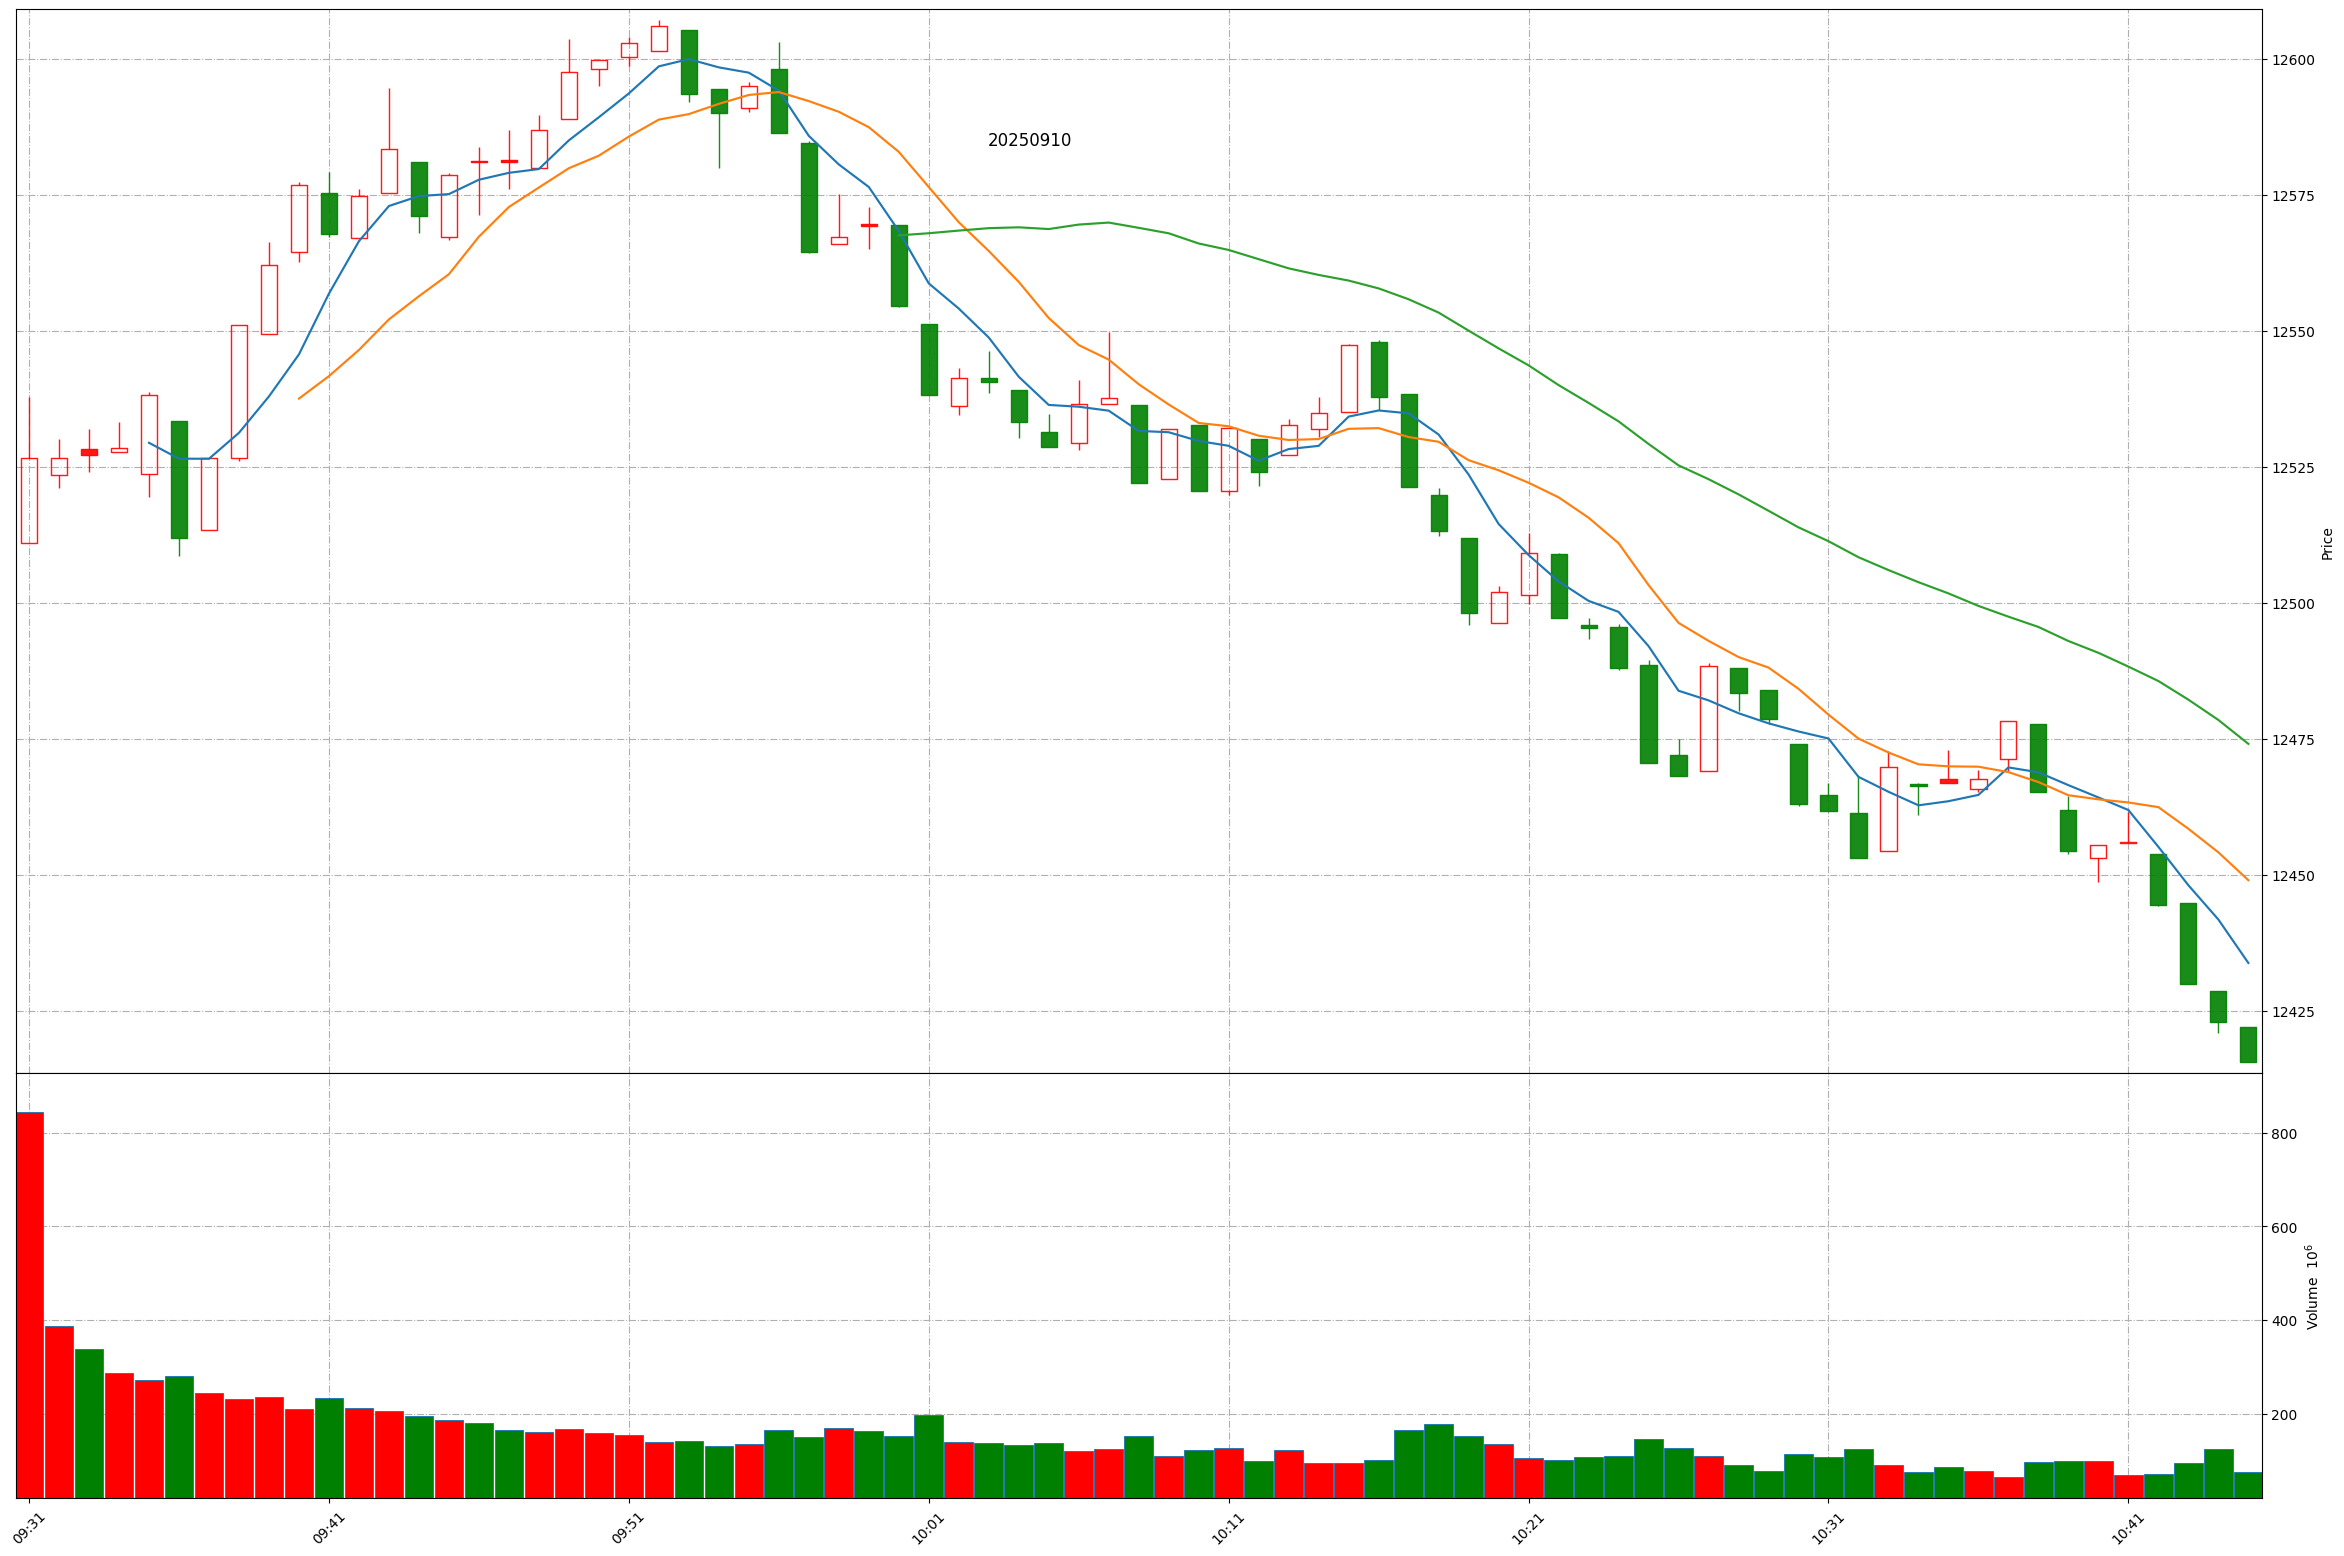
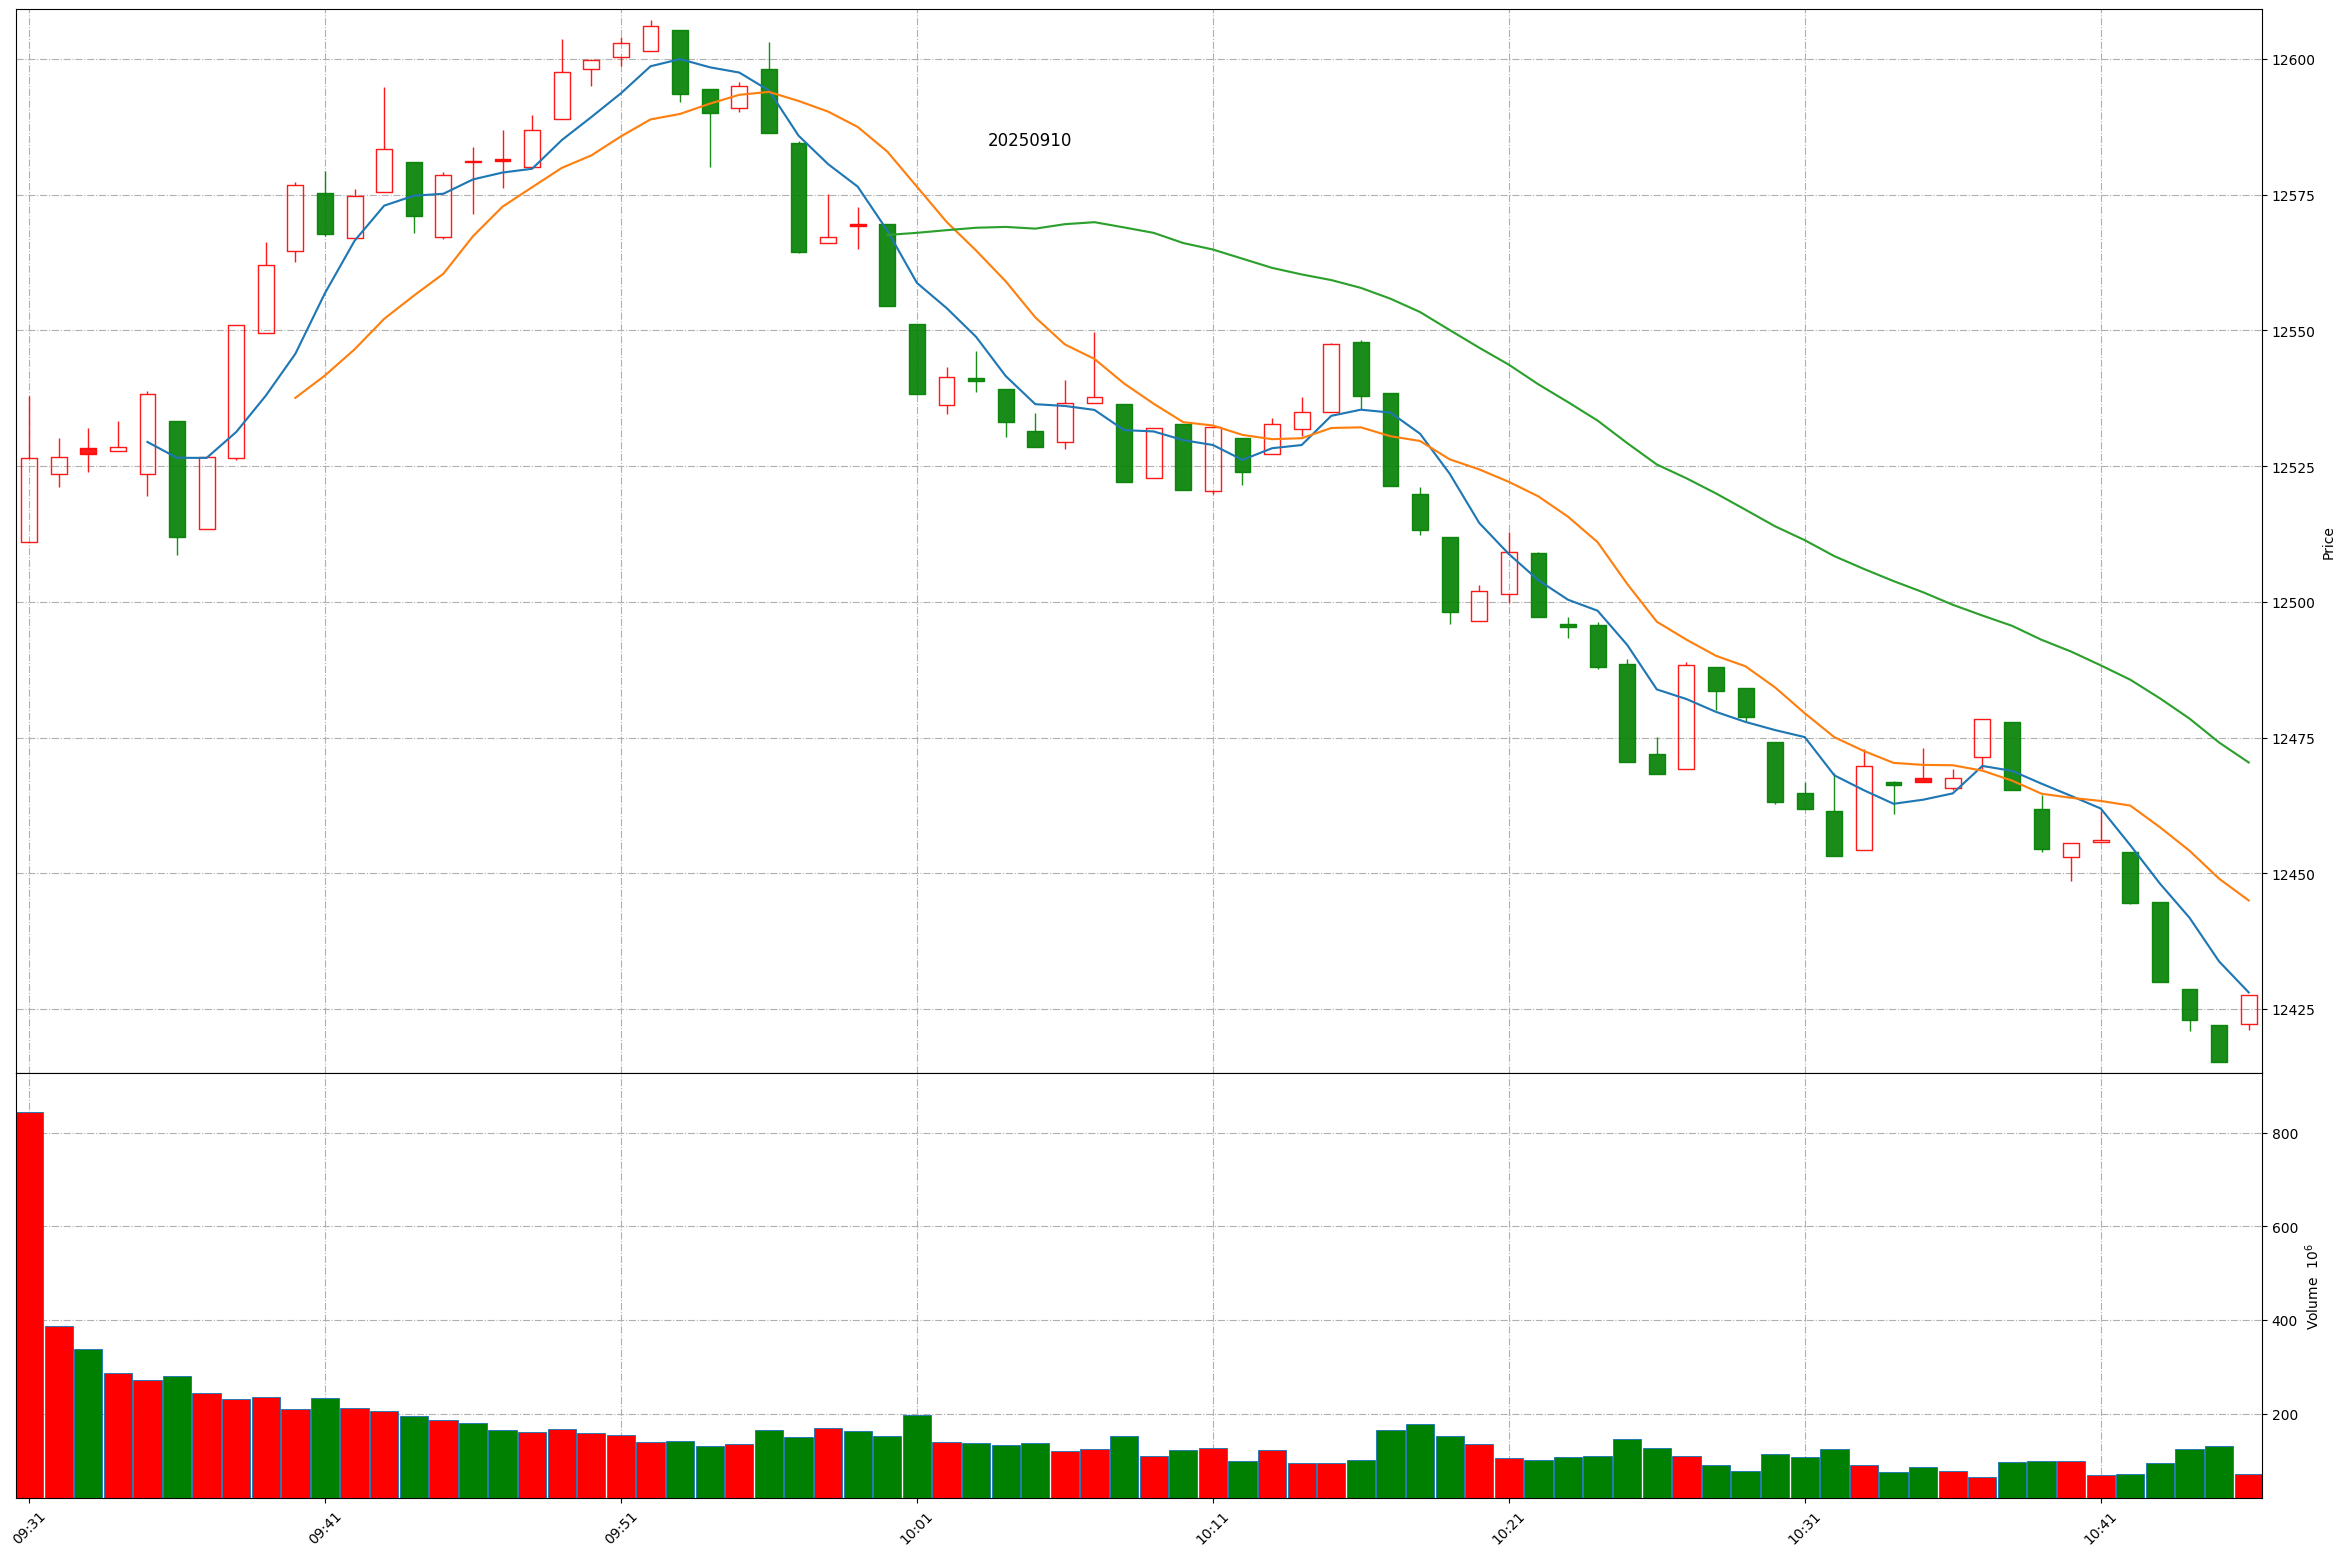
Github action update at 2025-09-10 10:45:42.

diff --git a/README.md b/README.md
@@ -1,11 +1,11 @@
 
 # Daily-A-share-market-quotes 每日 A 股指数（5min 更新）- 20250910
 
-### 上证指数 20250910 10:44
+### 上证指数 20250910 10:45
 ![](./fig/2025/9/20250910-sh000001.png)
 
-### 深证成指 20250910 10:44
+### 深证成指 20250910 10:45
 ![](./fig/2025/9/20250910-sz399001.png)
 
-### 北证50 20250910 10:44
+### 北证50 20250910 10:45
 ![](./fig/2025/9/20250910-bj899050.png)
